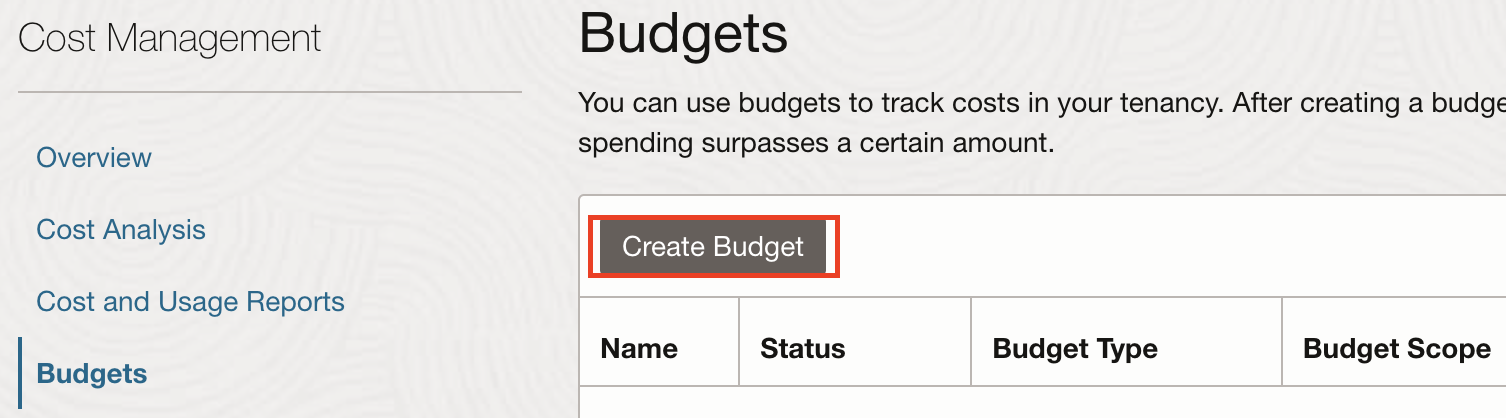
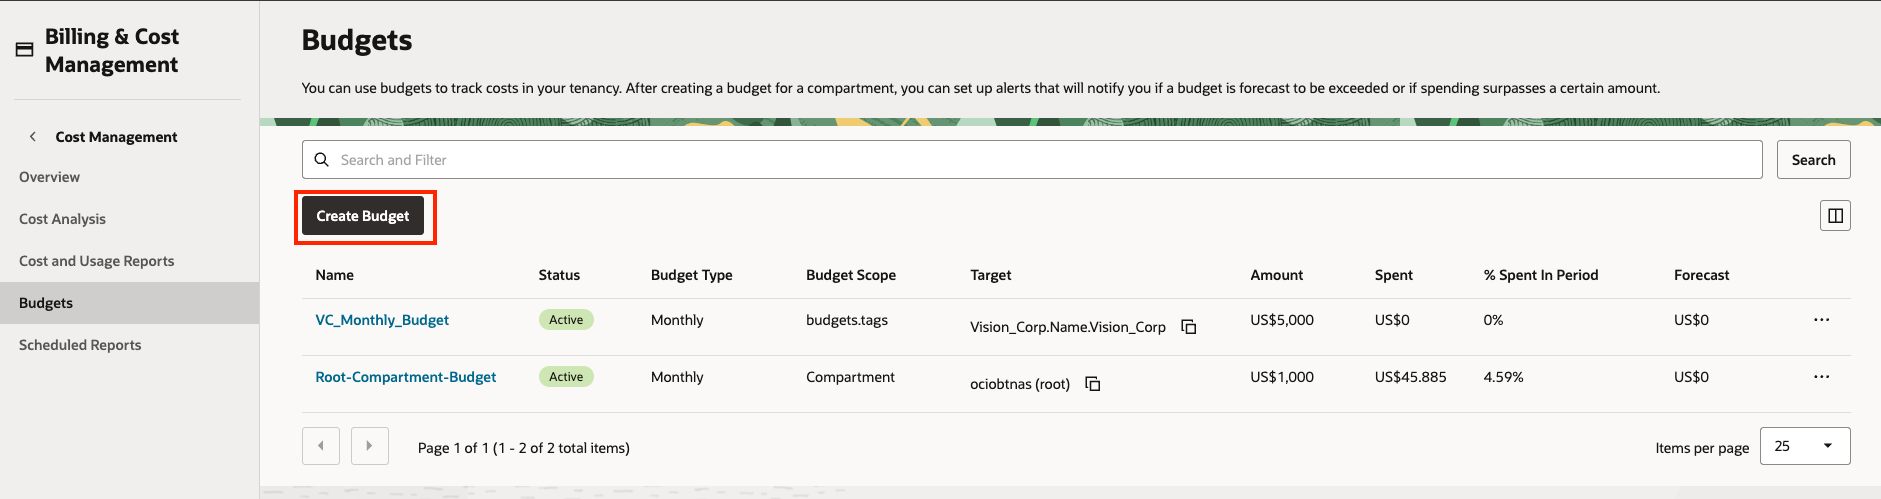
Updating Budget and Cost Analysis Lab 2080 (#96)
* fixing budget lab

* updating cost analysis lab

* added contribution

* update budget and cost lab

* hiding emails

* iam changes pt 1

* updated budget screenshot

diff --git a/budget-cost-analysis/budget/budget.md b/budget-cost-analysis/budget/budget.md
@@ -19,7 +19,7 @@ Estimated Lab Time: 30 minutes
 ## Task 2: Create budgets
 1. Click **Create Budget** at the top of the budgets list. The Create Budget dialog is displayed.
 
-  ![](./images/budget_2.png " ")
+  ![create a budget](./images/budget_2.png " ")
 
 ## Task 3: Enter budget name
 1. Enter a name for your budget in the **Name** text field. The name can only contain alphanumeric characters, dashes, and the underscore character, and can’t begin with a number.
@@ -114,5 +114,5 @@ You may now *proceed to the next lab*.
 
 ## Acknowledgements
 * **Authors/Contributors** - Harshit Kumar, Constantin Sebe, EMEA Hub Sales
-* **Last Updated By/Date** - Uma Kumar, August 2025
+* **Last Updated By/Date** - Uma Kumar, September 2025
 
